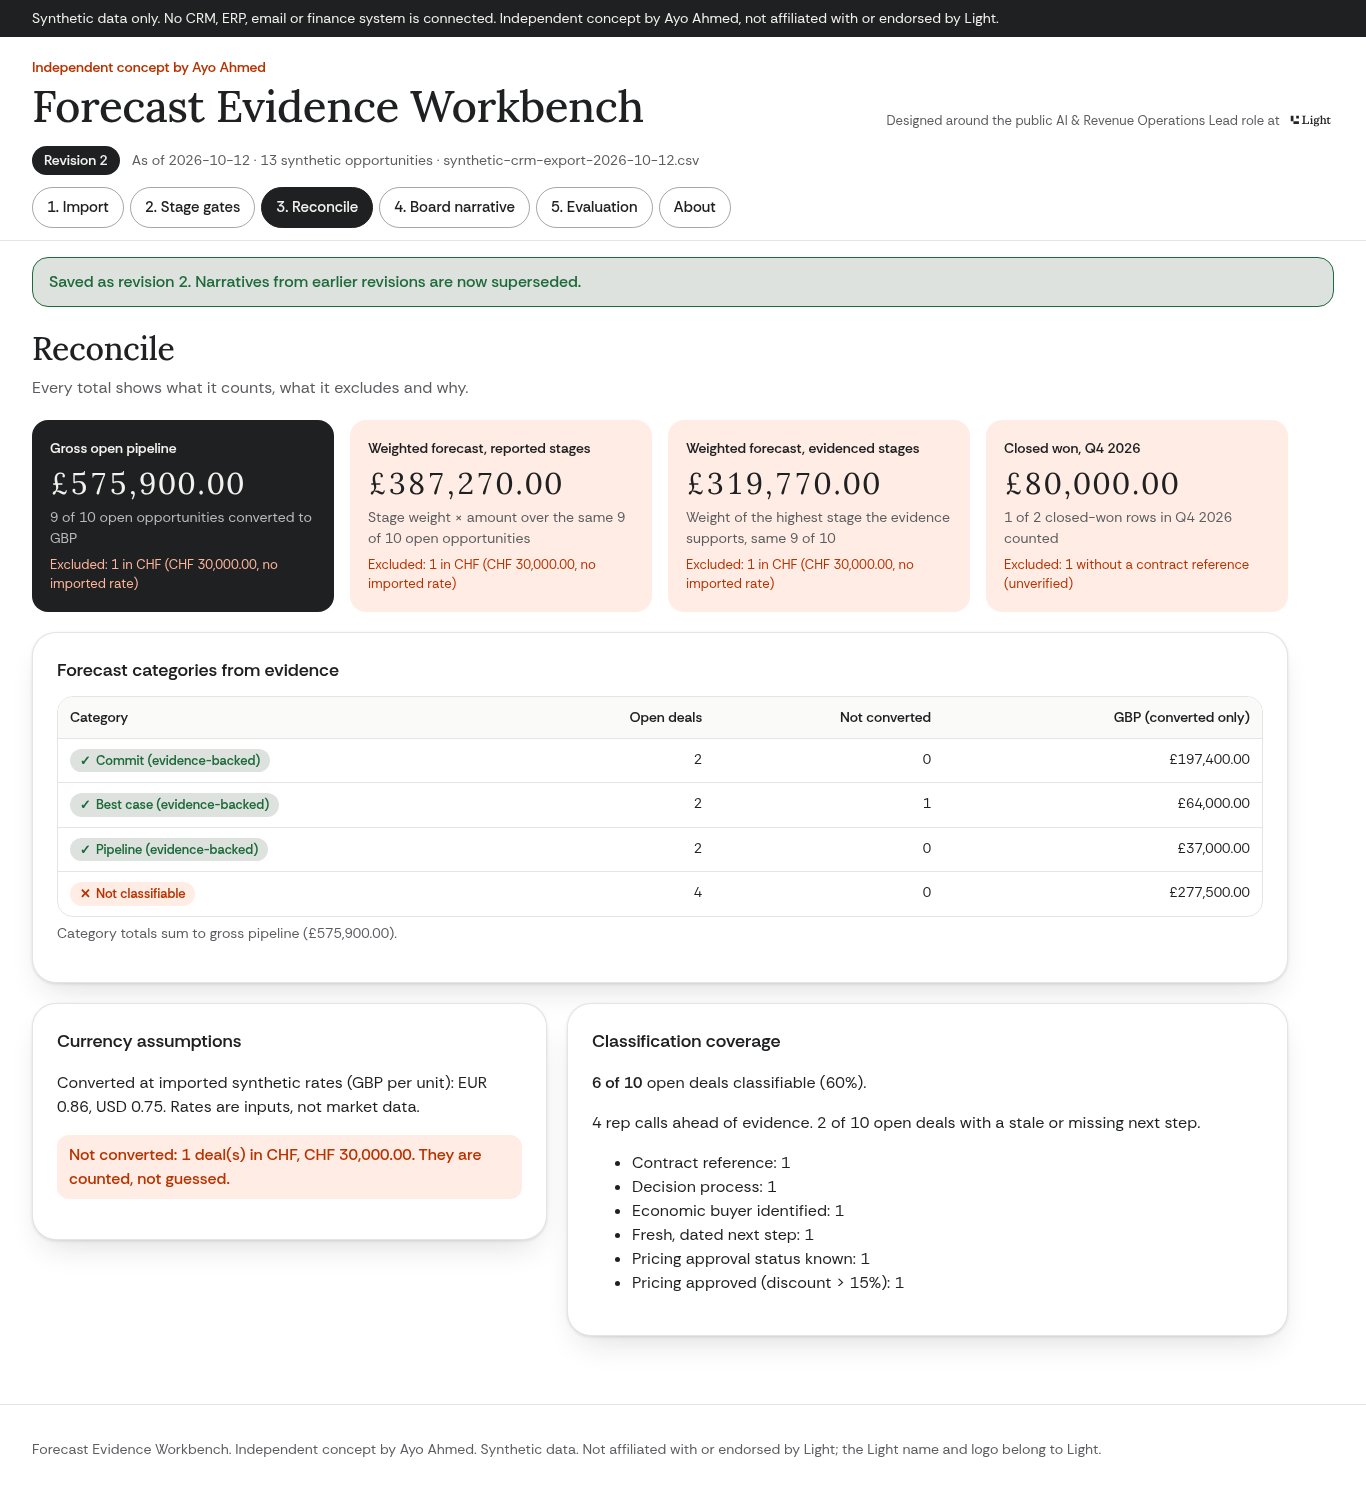
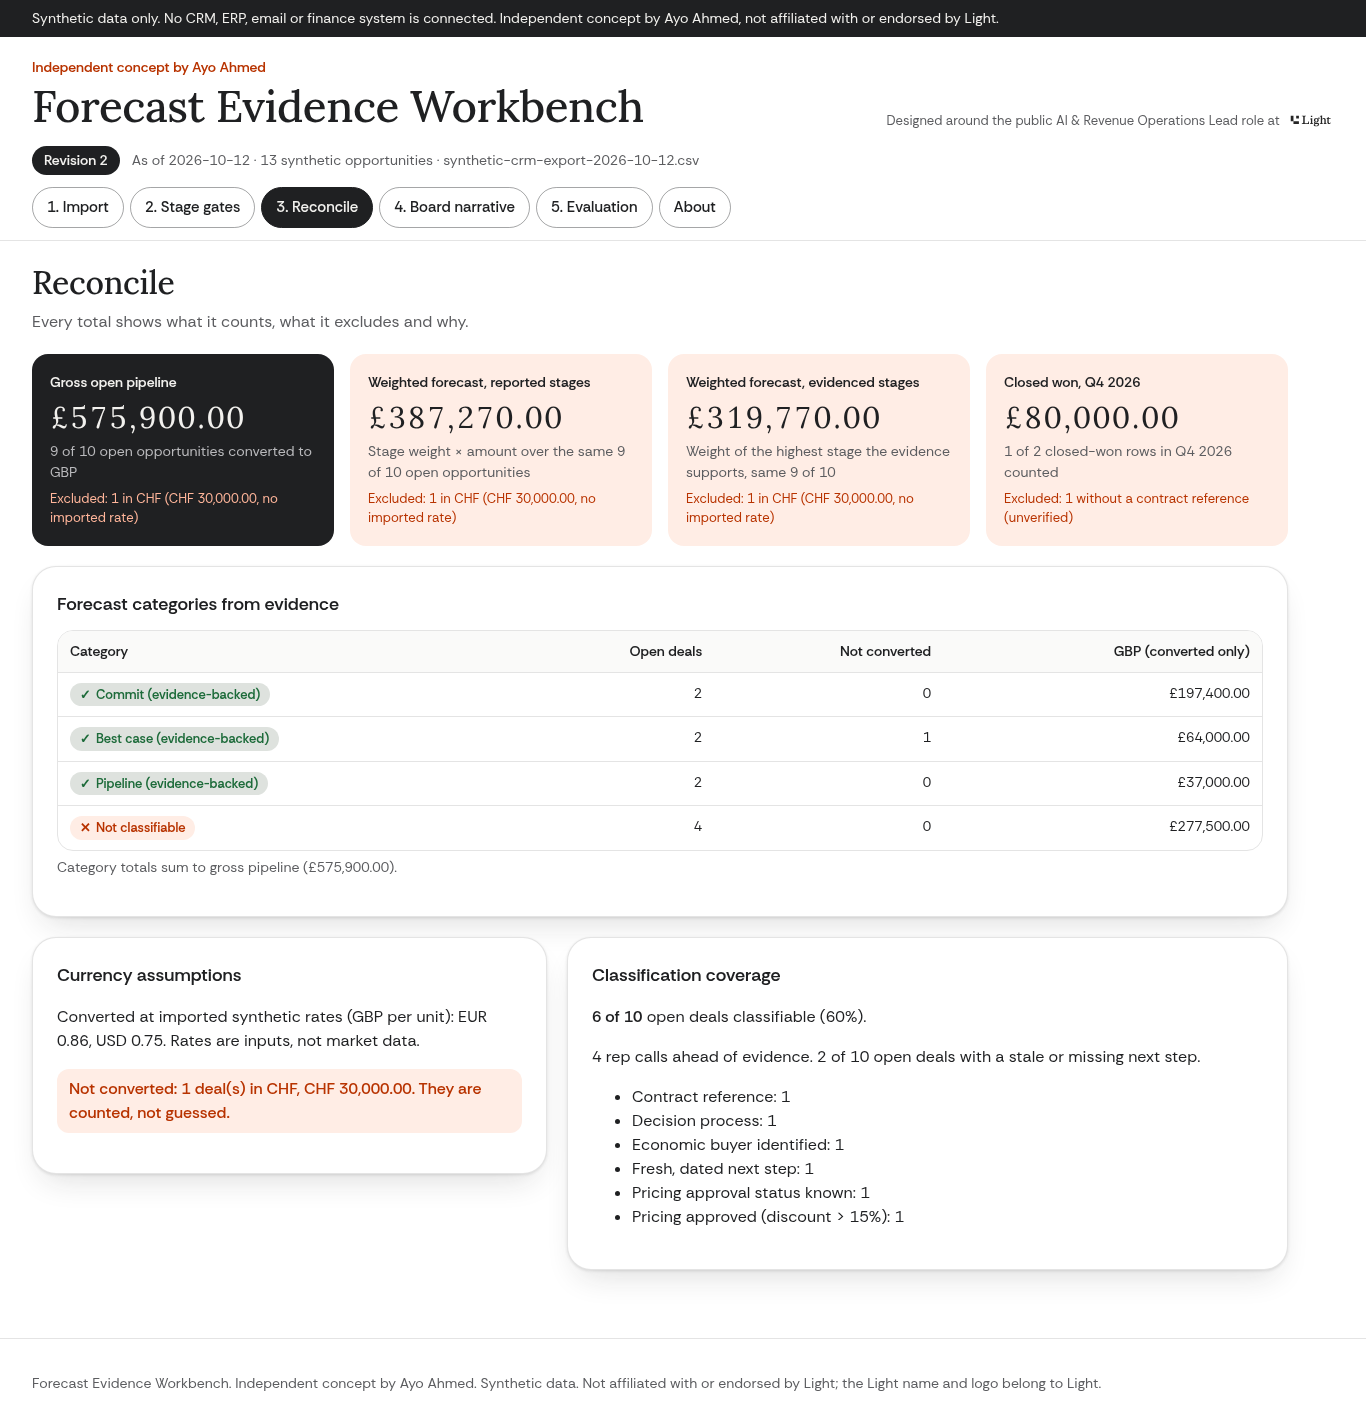
Polish: clear notices on tab change, no double punctuation, unwrapped case IDs

diff --git a/public/js/app.js b/public/js/app.js
@@ -55,10 +55,13 @@ async function load() {
   render();
 }
 
+let currentTab = null;
 function route() {
   const tab = (location.hash || "#import").slice(1);
   const valid = ["import", "gates", "reconcile", "narrative", "evaluation", "about"];
   const t = valid.includes(tab) ? tab : "import";
+  if (t !== currentTab) clearNotice();
+  currentTab = t;
   document.querySelectorAll("[data-view]").forEach((s) => { s.hidden = s.dataset.view !== t; });
   document.querySelectorAll(".tabs a").forEach((a) => { if (a.dataset.tab === t) a.setAttribute("aria-current", "page"); else a.removeAttribute("aria-current"); });
 }
@@ -178,7 +181,7 @@ function oppCard(v) {
 let evTarget = null, evKey = null;
 function openEvidence(v) {
   evTarget = v; evKey = crypto.randomUUID();
-  $("#evidence-for").textContent = `${v.opp_id} · ${v.account} (synthetic)`;
+  $("#evidence-for").textContent = `${v.opp_id} · ${v.account}`;
   const sel = $("#ev-field");
   const firstMissing = v.missing[0] ? (REQ_FIELD[v.missing[0].key] || v.missing[0].key) : "metrics";
   fill(sel, Object.entries(FIELD).map(([k, l]) => h("option", { value: k, selected: k === firstMissing }, l)));
@@ -291,7 +294,7 @@ function renderEval() {
     h("p", { class: "help", text: e.note }),
     h("div", { class: "tablewrap", tabindex: "0", role: "region", "aria-label": "Table (scrolls sideways on small screens)" }, h("table", { class: "stack" },
       h("thead", {}, h("tr", {}, h("th", { text: "Case" }), h("th", { text: "Check" }), h("th", { text: "Expected" }), h("th", { text: "Actual" }), h("th", { text: "Result" }))),
-      h("tbody", {}, e.cases.map((c) => h("tr", {}, h("td", { "data-label": "Case", class: "ref", text: c.id }), h("td", { "data-label": "Check", text: c.description }), h("td", { "data-label": "Expected", class: "ref", text: c.expected }), h("td", { "data-label": "Actual", class: "ref", text: c.actual }), h("td", { "data-label": "Result" }, chip(c.pass ? "pass" : "fail", c.pass ? "Pass" : "Fail"))))),
+      h("tbody", {}, e.cases.map((c) => h("tr", {}, h("td", { "data-label": "Case", class: "ref nowrap", text: c.id }), h("td", { "data-label": "Check", text: c.description }), h("td", { "data-label": "Expected", class: "ref", text: c.expected }), h("td", { "data-label": "Actual", class: "ref", text: c.actual }), h("td", { "data-label": "Result" }, chip(c.pass ? "pass" : "fail", c.pass ? "Pass" : "Fail"))))),
     )),
   );
 }

diff --git a/src/engine/narrative.ts b/src/engine/narrative.ts
@@ -32,7 +32,7 @@ function actionFor(v: OppView): { action: string; why: string } | null {
     next_step_fresh: "Set a dated next step with the buyer",
     close_date_current: "Re-date the close (current date has passed)",
   };
-  return { action: map[m.key] ?? `Resolve: ${m.label}`, why: `${m.label}: ${m.detail}.${v.missing.length > 1 ? ` ${v.missing.length - 1} more gap(s).` : ""}` };
+  return { action: map[m.key] ?? `Resolve: ${m.label}`, why: `${m.label}: ${m.detail.replace(/\.$/, "")}.${v.missing.length > 1 ? ` ${v.missing.length - 1} more gap(s).` : ""}` };
 }
 
 /** Built only from the snapshot passed in. Nothing from older revisions or outside the import is read. */

diff --git a/public/css/app.css b/public/css/app.css
@@ -117,3 +117,4 @@ dialog h2 { font-size: 24px; }
 @media (prefers-reduced-motion: no-preference) { html { scroll-behavior: smooth; } }
 .mt6 { margin-top: 6px; } .mt12 { margin-top: 12px; } .mt16 { margin-top: 16px; } .mb16 { margin-bottom: 16px; }
 .blocking { margin: 10px 0 0; font-size: 14px; }
+.nowrap { white-space: nowrap; }
